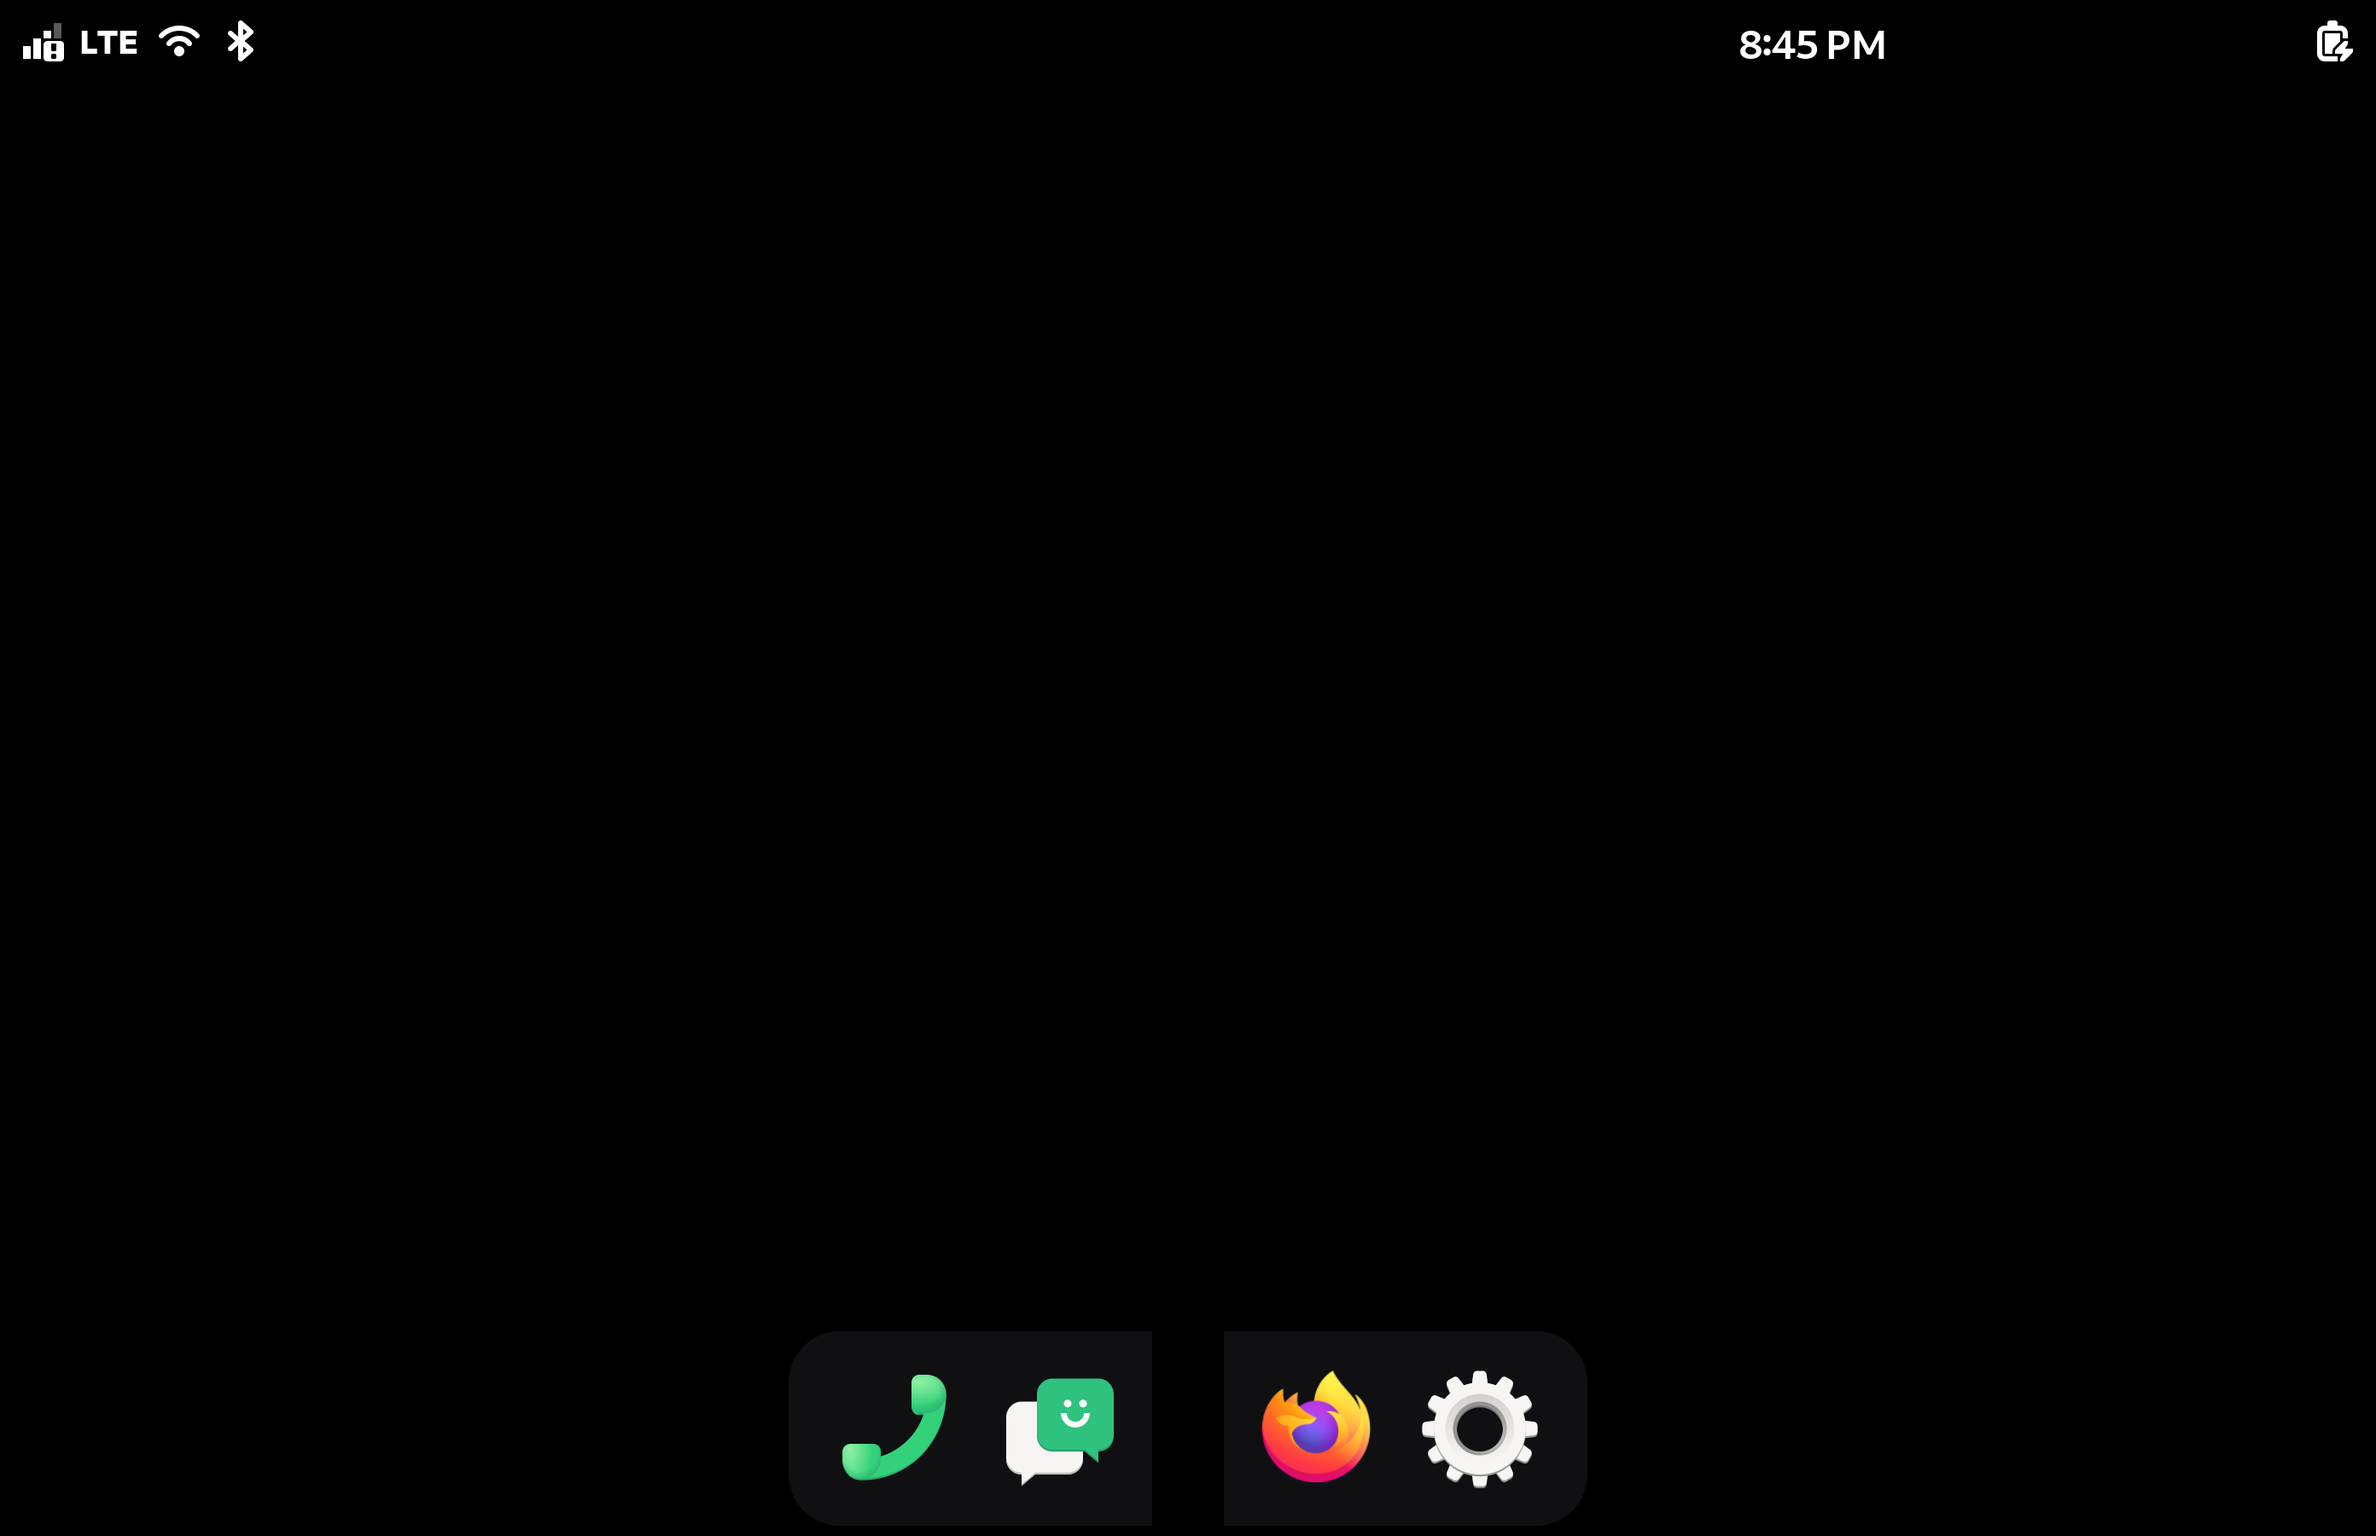
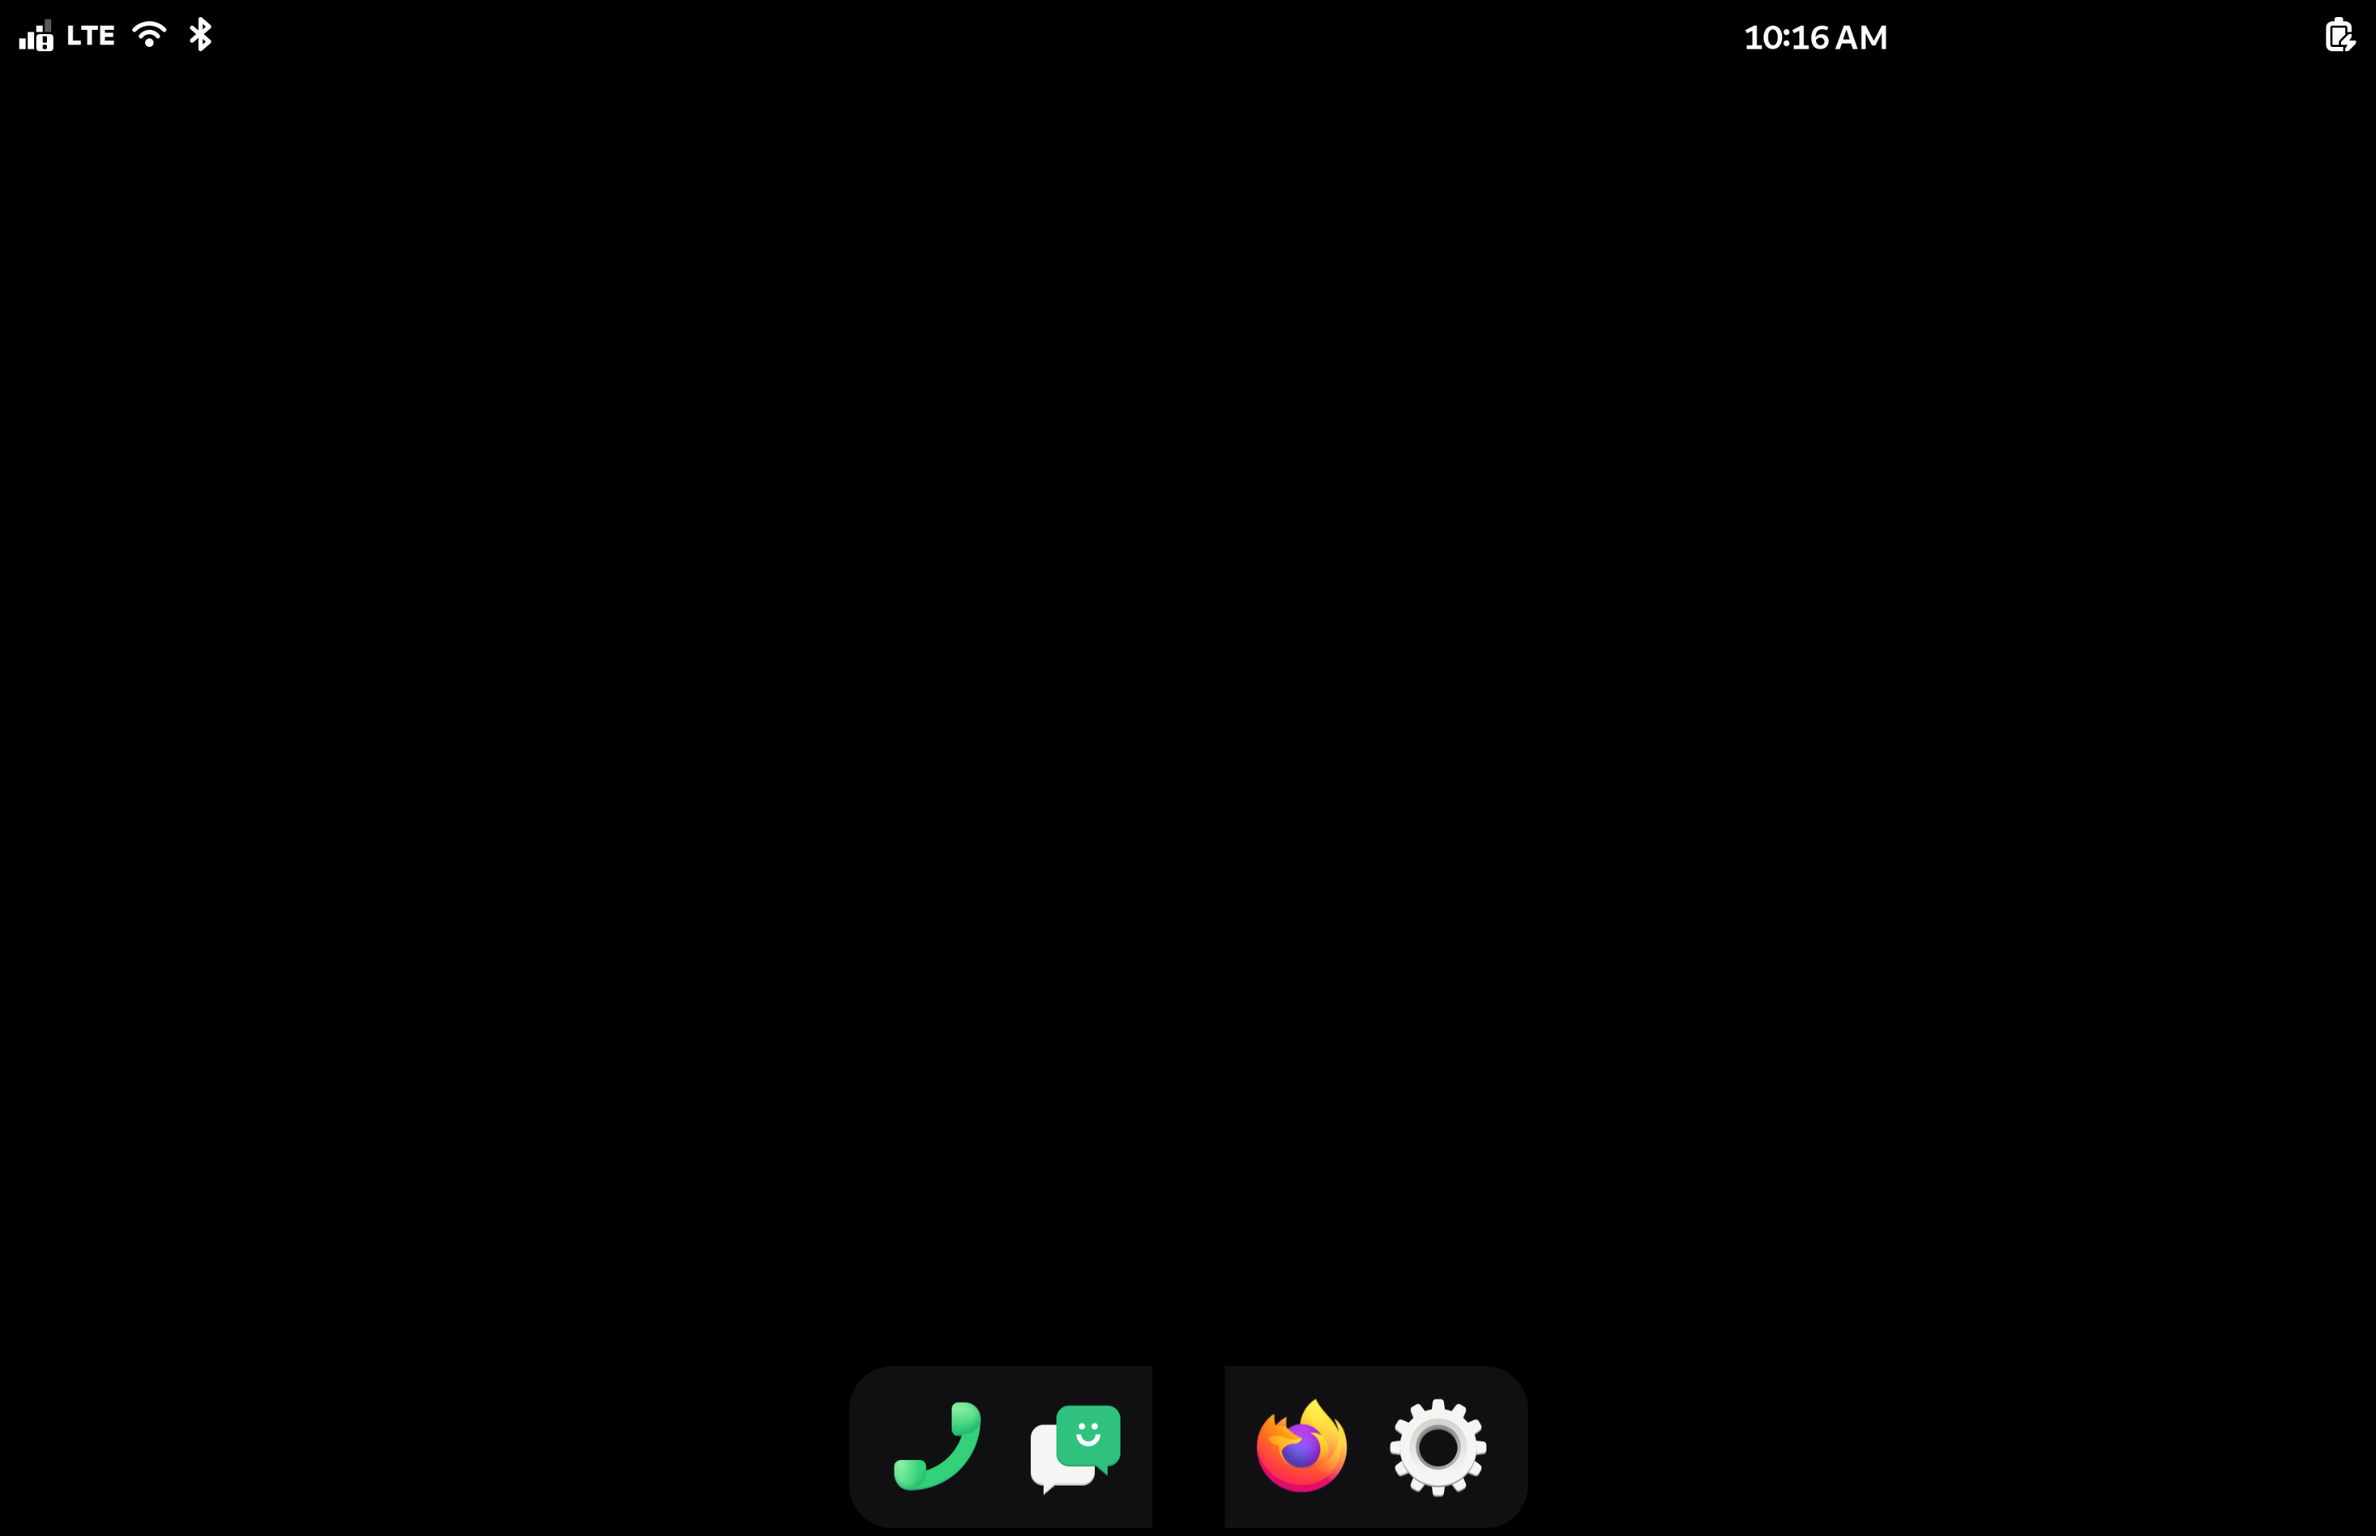
shell: 0.14.2 - tiled windows stop at the hinge, with a patched phoc
phoc tiles a window to exactly half the output, and the middle of the
output is the middle of the hinge: every tiled window reached half the
hinge into the bezel on its inner edge and lost that much of its
content - 14 logical pixels at scale 3, 17 at 2.5. Nothing outside the
compositor can fix it: exclusive zones only move the usable area, and
halves of any area meet in its middle.

phoc-patches/0001 adds a `tiling-seam` key to an output's section of
phoc.ini - the hidden column as a fraction of the output's width - and
phoc_view_get_tiled_box stops the halves at it. Without the key phoc
tiles as before; a phoc without the patch warns about the key and
ignores it. The package carries the binary (droidian/phoc 98211ea, built
in a Droidian arm64 container against Droidian's wlroots; the recipe is
in build/) and sfduo-phoc-install puts it in place with the same version
lock, marker and --restore as the phosh one. Measured on the device: the
right half's inner edge moved from 1392 to 1430 physical pixels, the
right panel starting at 1434.

The README's screenshots are retaken at scale 2.5 with the patch; the
first shows the first-run wizard on the panel it opened on.

diff --git a/README.md b/README.md
@@ -23,13 +23,14 @@ Microsoft's debugging (`kernel-packaging/droidian/surfaceduo-perf.config`,
 ## What it looks like
 
 Screenshots of the one output both panels share (2784x1800; the 84 px column
-the hinge hides is in the middle), taken on a from-scratch install of 0.13.0.
-The two-panel shell is **experimental and in development**.
+the hinge hides is in the middle), taken on a from-scratch install of 0.14.2
+at the port's output scale of 2.5. The two-panel shell is **experimental and
+in development**.
 
 | | |
 |---|---|
-| ![two apps, one per panel](docs/img/shell-two-apps.png) | ![the dock across both panels](docs/img/shell-desktop.png) |
-| An app per panel: the dock tiles each window onto the side it was launched from. | The dock, cut by the hinge rather than doubled. |
+| ![the first-run wizard on one panel](docs/img/shell-welcome.png) | ![the dock across both panels](docs/img/shell-desktop.png) |
+| A window on the panel it opened on: the dock tiles it there, and the patched phoc stops it at the hinge rather than half way into it. | The dock, cut by the hinge rather than doubled. |
 | ![the app grid](docs/img/shell-grid.png) | ![the lock screen](docs/img/shell-lockscreen.png) |
 | Swipe up from the dock: every app, dealt across the two panels. | The lock screen, kept off the hinge by CSS alone. |
 
@@ -56,7 +57,7 @@ The two-panel shell is **experimental and in development**.
 | GPS | ✅ | vendor GNSS + geoclue hybris source, ~4 m fixes; needs the geoclue keepalive drop-in from the adaptation (see traps below) |
 | Modem (calls/SMS/LTE) | 🟡 | LTE data works (70-90 ms pings) once the adaptation puts the modem online and on LTE at boot - it comes up offline and on 3G otherwise, see [adaptation/system](adaptation/system/README.md). Incoming SMS arrive; sending SMS and calls not tested yet |
 | Video out (USB-C DP) | ❓ | the whole DisplayPort path sits in the stock device tree and probes cleanly; whether the lanes reach the connector has never been tested - see below |
-| Dual-screen aware UI | 🧪 | experimental, in development: stock phosh spans both panels as one; the adaptation adds a dock across both that tiles each app onto the panel it was launched from, and CSS that keeps the shell's own furniture off the hinge - see [adaptation/shell](adaptation/shell/README.md). The on-screen keyboard and the notification shade still span both panels |
+| Dual-screen aware UI | 🧪 | experimental, in development: stock phosh spans both panels as one; the adaptation adds a dock across both that tiles each app onto the panel it was launched from, CSS that keeps the shell's own furniture off the hinge, and patched phosh and phoc binaries (focus after the app grid closes; tiled windows stop at the hinge) - see [adaptation/shell](adaptation/shell/README.md). The on-screen keyboard and the notification shade still span both panels |
 
 ## Repository layout
 

diff --git a/adaptation/shell/README.md b/adaptation/shell/README.md
@@ -273,12 +273,25 @@ gets one app a 64px bitmap and the next a 32px one; and a button sized to its
 child leaves the row ragged even once the glyphs match. Hence a fixed pixel
 size on every image and a fixed box around every button.
 
-Two rough edges, both known:
+Two things worth knowing:
 
-- phoc's halves are exactly half the output, so a tiled window reaches 14
-  logical pixels into the hinge on its inner edge. Fixing it properly means
-  patching `view_arrange_tiled` in phoc to read the same gmobile cutout the
-  CSS above is built around.
+- phoc's halves are exactly half the output, and the middle of the output is
+  the middle of the hinge, so a tiled window reached half the hinge into the
+  bezel on its inner edge - 14 logical pixels at scale 3, 17 at 2.5 - and
+  lost that much of its content. Since 0.14.2 the package carries a patched
+  phoc (`phoc-patches/0001`, installed by `sfduo-phoc-install` beside exactly
+  the phoc version it was built for, with the same version lock, `--restore`
+  and marker as the phosh one): a `tiling-seam` in the output's section of
+  `phoc.ini`, the hinge as a fraction of the output's width, makes the halves
+  stop short of it. Left half: from the usable area's left edge to the seam;
+  right half: from the seam to the usable area's right edge. Without the key
+  phoc tiles as before, and a phoc without the patch warns about the key and
+  ignores it. Built like phosh, in a Droidian arm64 container under qemu:
+  `build/Dockerfile.phoc` on top of `build/Dockerfile.phosh`, the tree at
+  droidian/phoc 98211ea with the patch applied, `meson setup _build
+  --prefix=/usr --libdir=lib/aarch64-linux-gnu -Dembed-wlroots=disabled`
+  (the system wlroots is Droidian's fork with the hwcomposer backend) and
+  `ninja -C _build src/phoc`; the binary goes to `out/phoc/` for the package.
 - `gsettings set sm.puri.phoc auto-maximize false` is what lets a window stay
   tiled rather than being forced back to full width.
 
